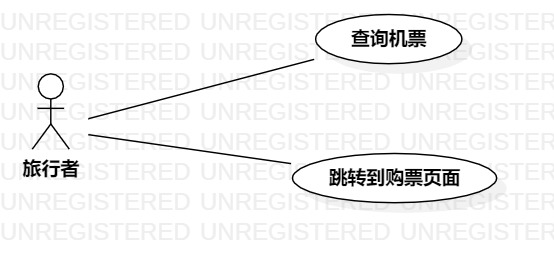
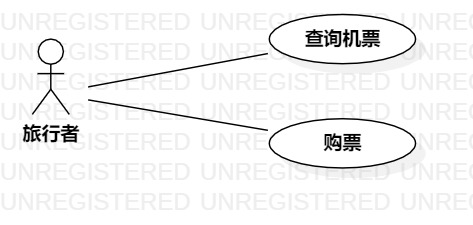
#2 #559 实验二：用例建模（第二版）

diff --git a/students/1714080902316/lab2.md b/students/1714080902316/lab2.md
@@ -36,18 +36,20 @@
 后置条件  |      | *可选*   
 基本流程  | 1.旅行者选择出发地和目的地  |*用例执行成功的步骤*    
 ~| 2.旅行者点击查询按钮  |   
-~| 3.系统显示出对应的查询结果  |  
-扩展流程  | 2.1旅行者所选择的航线没有对应的航班。 |*用例执行失败* 
+~| 3.系统检查出发地和目的地选择是否为空  |  
+~| 4.系统显示出对应的查询结果  |  
+扩展流程  | 3.1出发地或目的地选择为空，提示“没有选择出发地或目的地，查询失败！” |*用例执行失败* 
 
 
 
-## 表2：跳转到购票页面用例规约  
+## 表2：购票用例规约  
 
 用例编号  | UC02 | 备注  
 -|:-|-  
-用例名称  | 跳转到购票页面 |   
-前置条件  |   查询机票成功   | *可选*   
+用例名称  | 购票 |   
+前置条件  |   查询成功   | *可选*   
 后置条件  |      | *可选*   
 基本流程  | 1. 旅行者对查询结果中的某航班点击了购票按钮；  |*用例执行成功的步骤*    
-~| 2. 系统跳转到对应航空公司的购票页面  |   
-扩展流程  | 2.1连接航空公司购票页面失败。 |*用例执行失败* 
+~| 2. 系统匹配到该航班所属航空公司的购票网站  |   
+~| 3. 系统跳转到对应航空公司的购票页面  |   
+扩展流程  | 2.1系统匹配购票页面失败，提示“请直接到该航空公司的官网购票” |*用例执行失败* 
